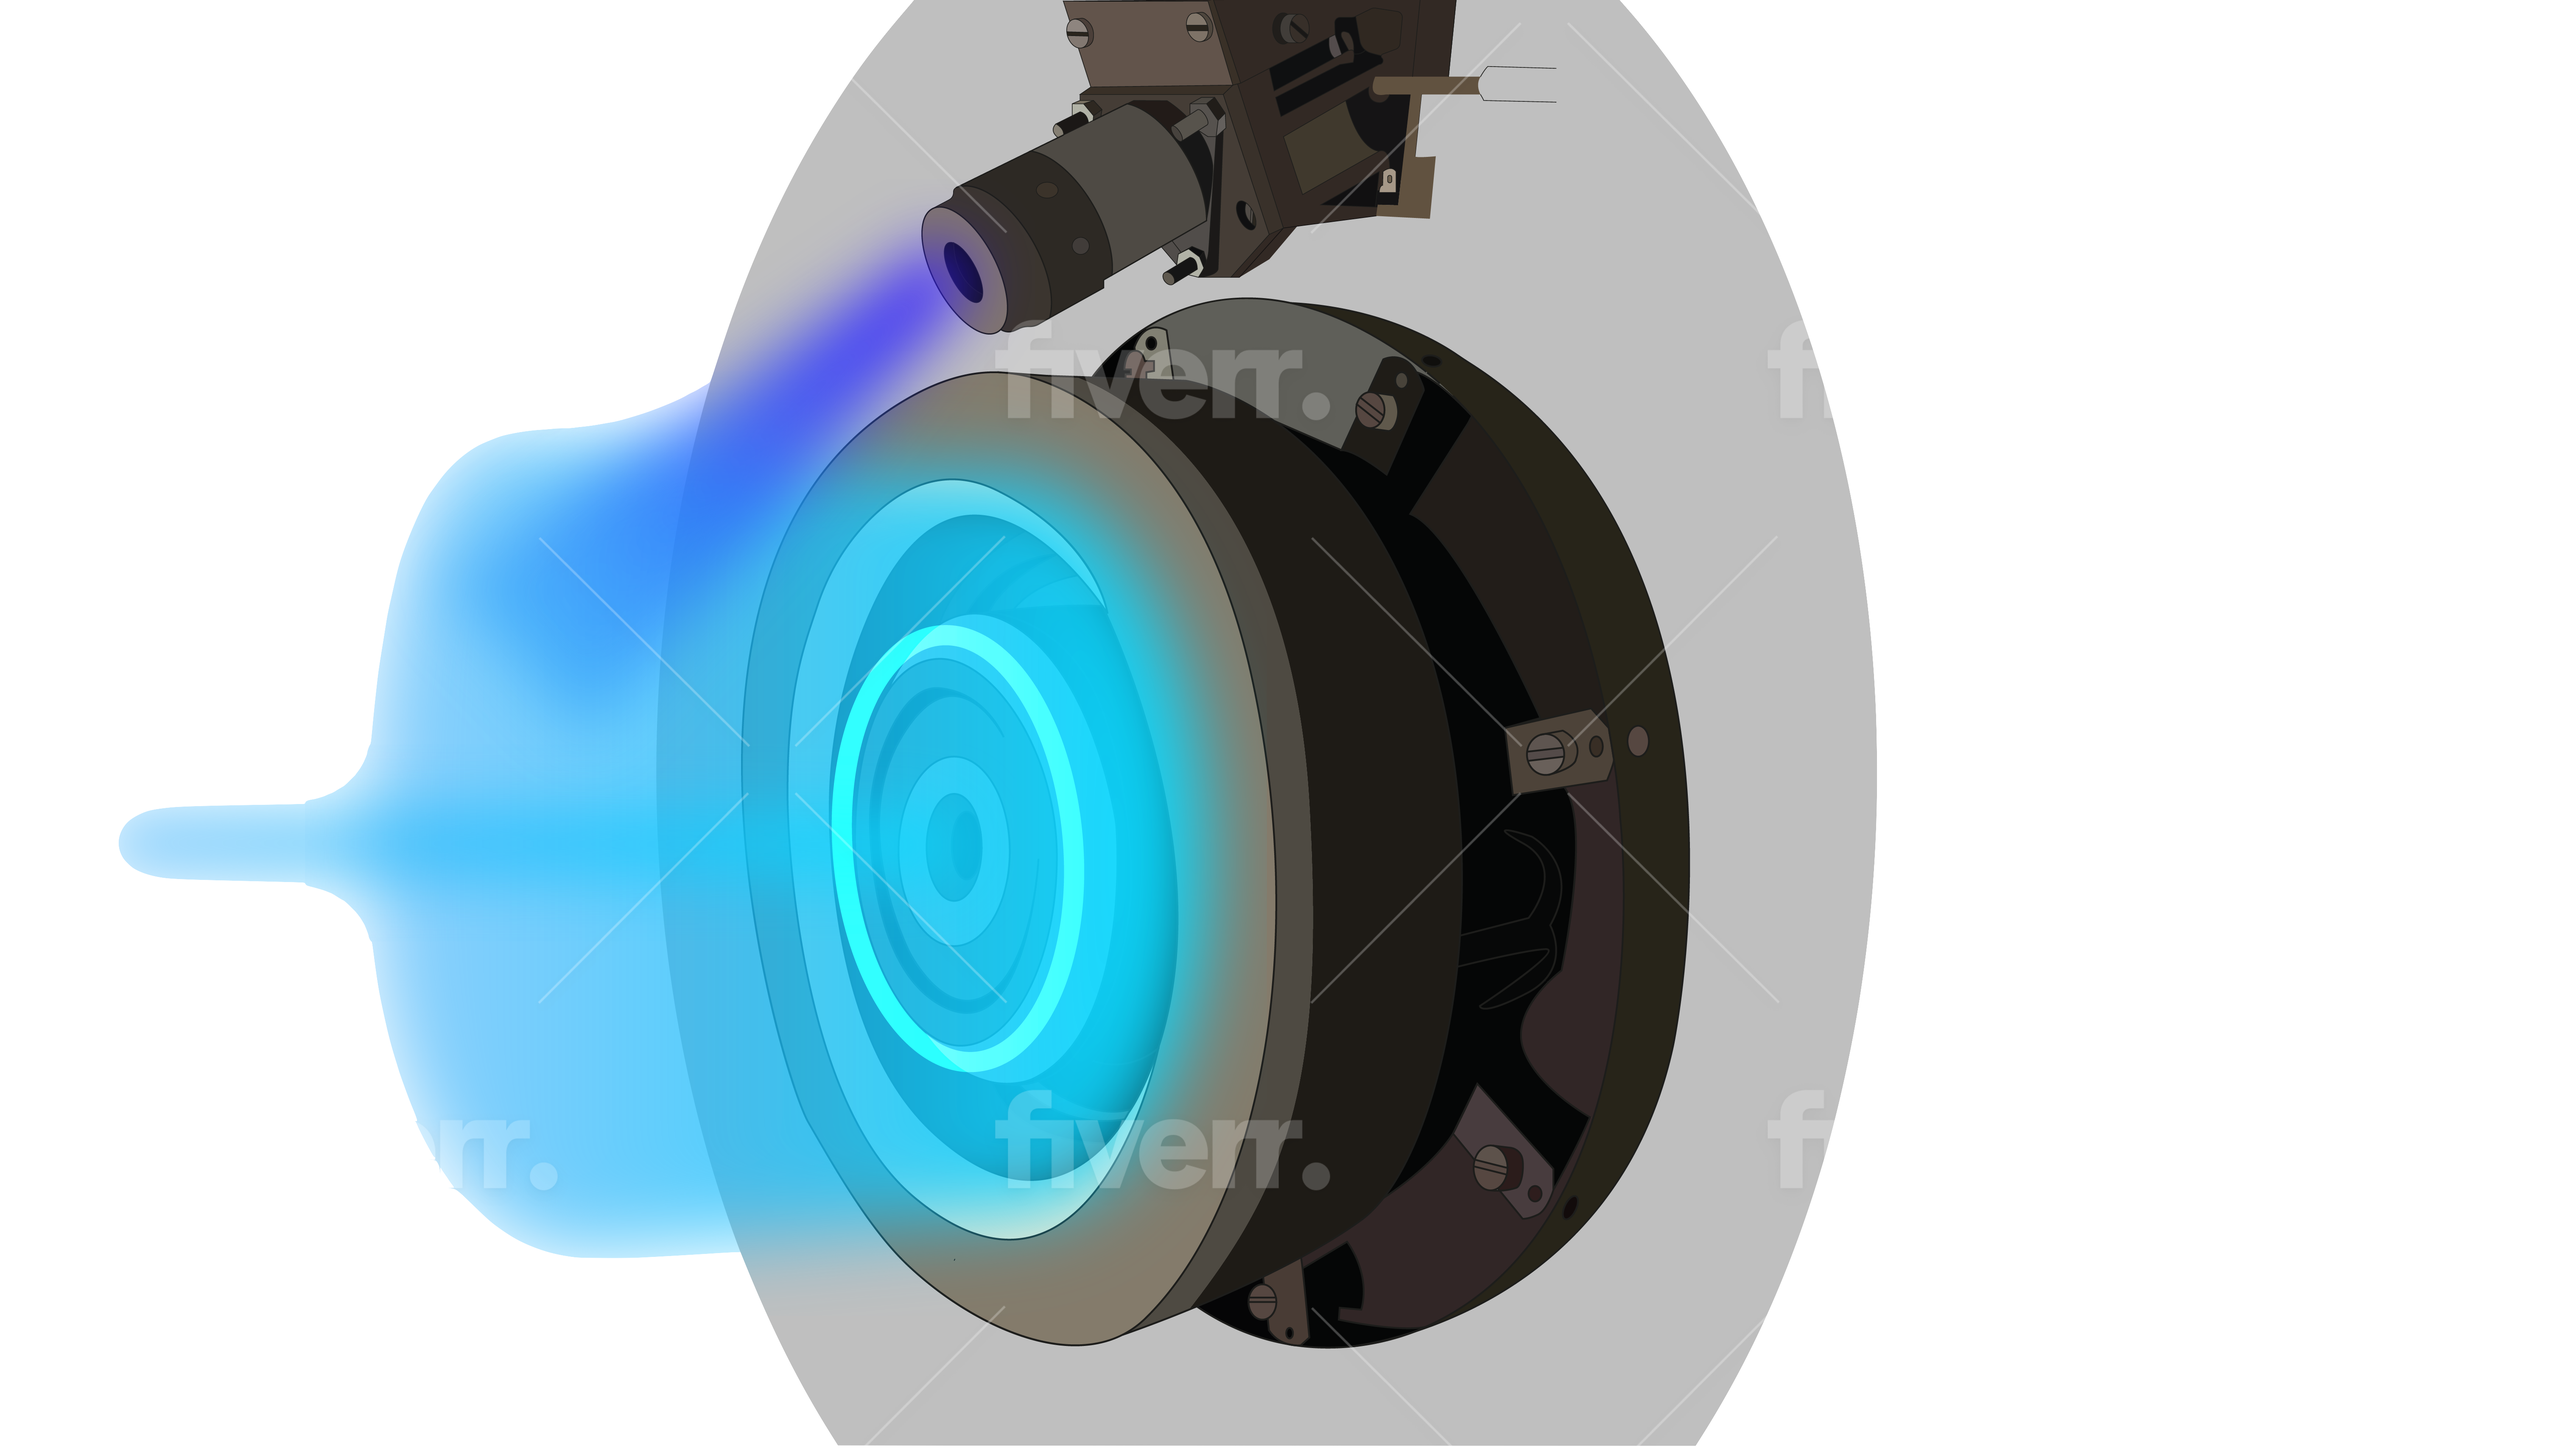
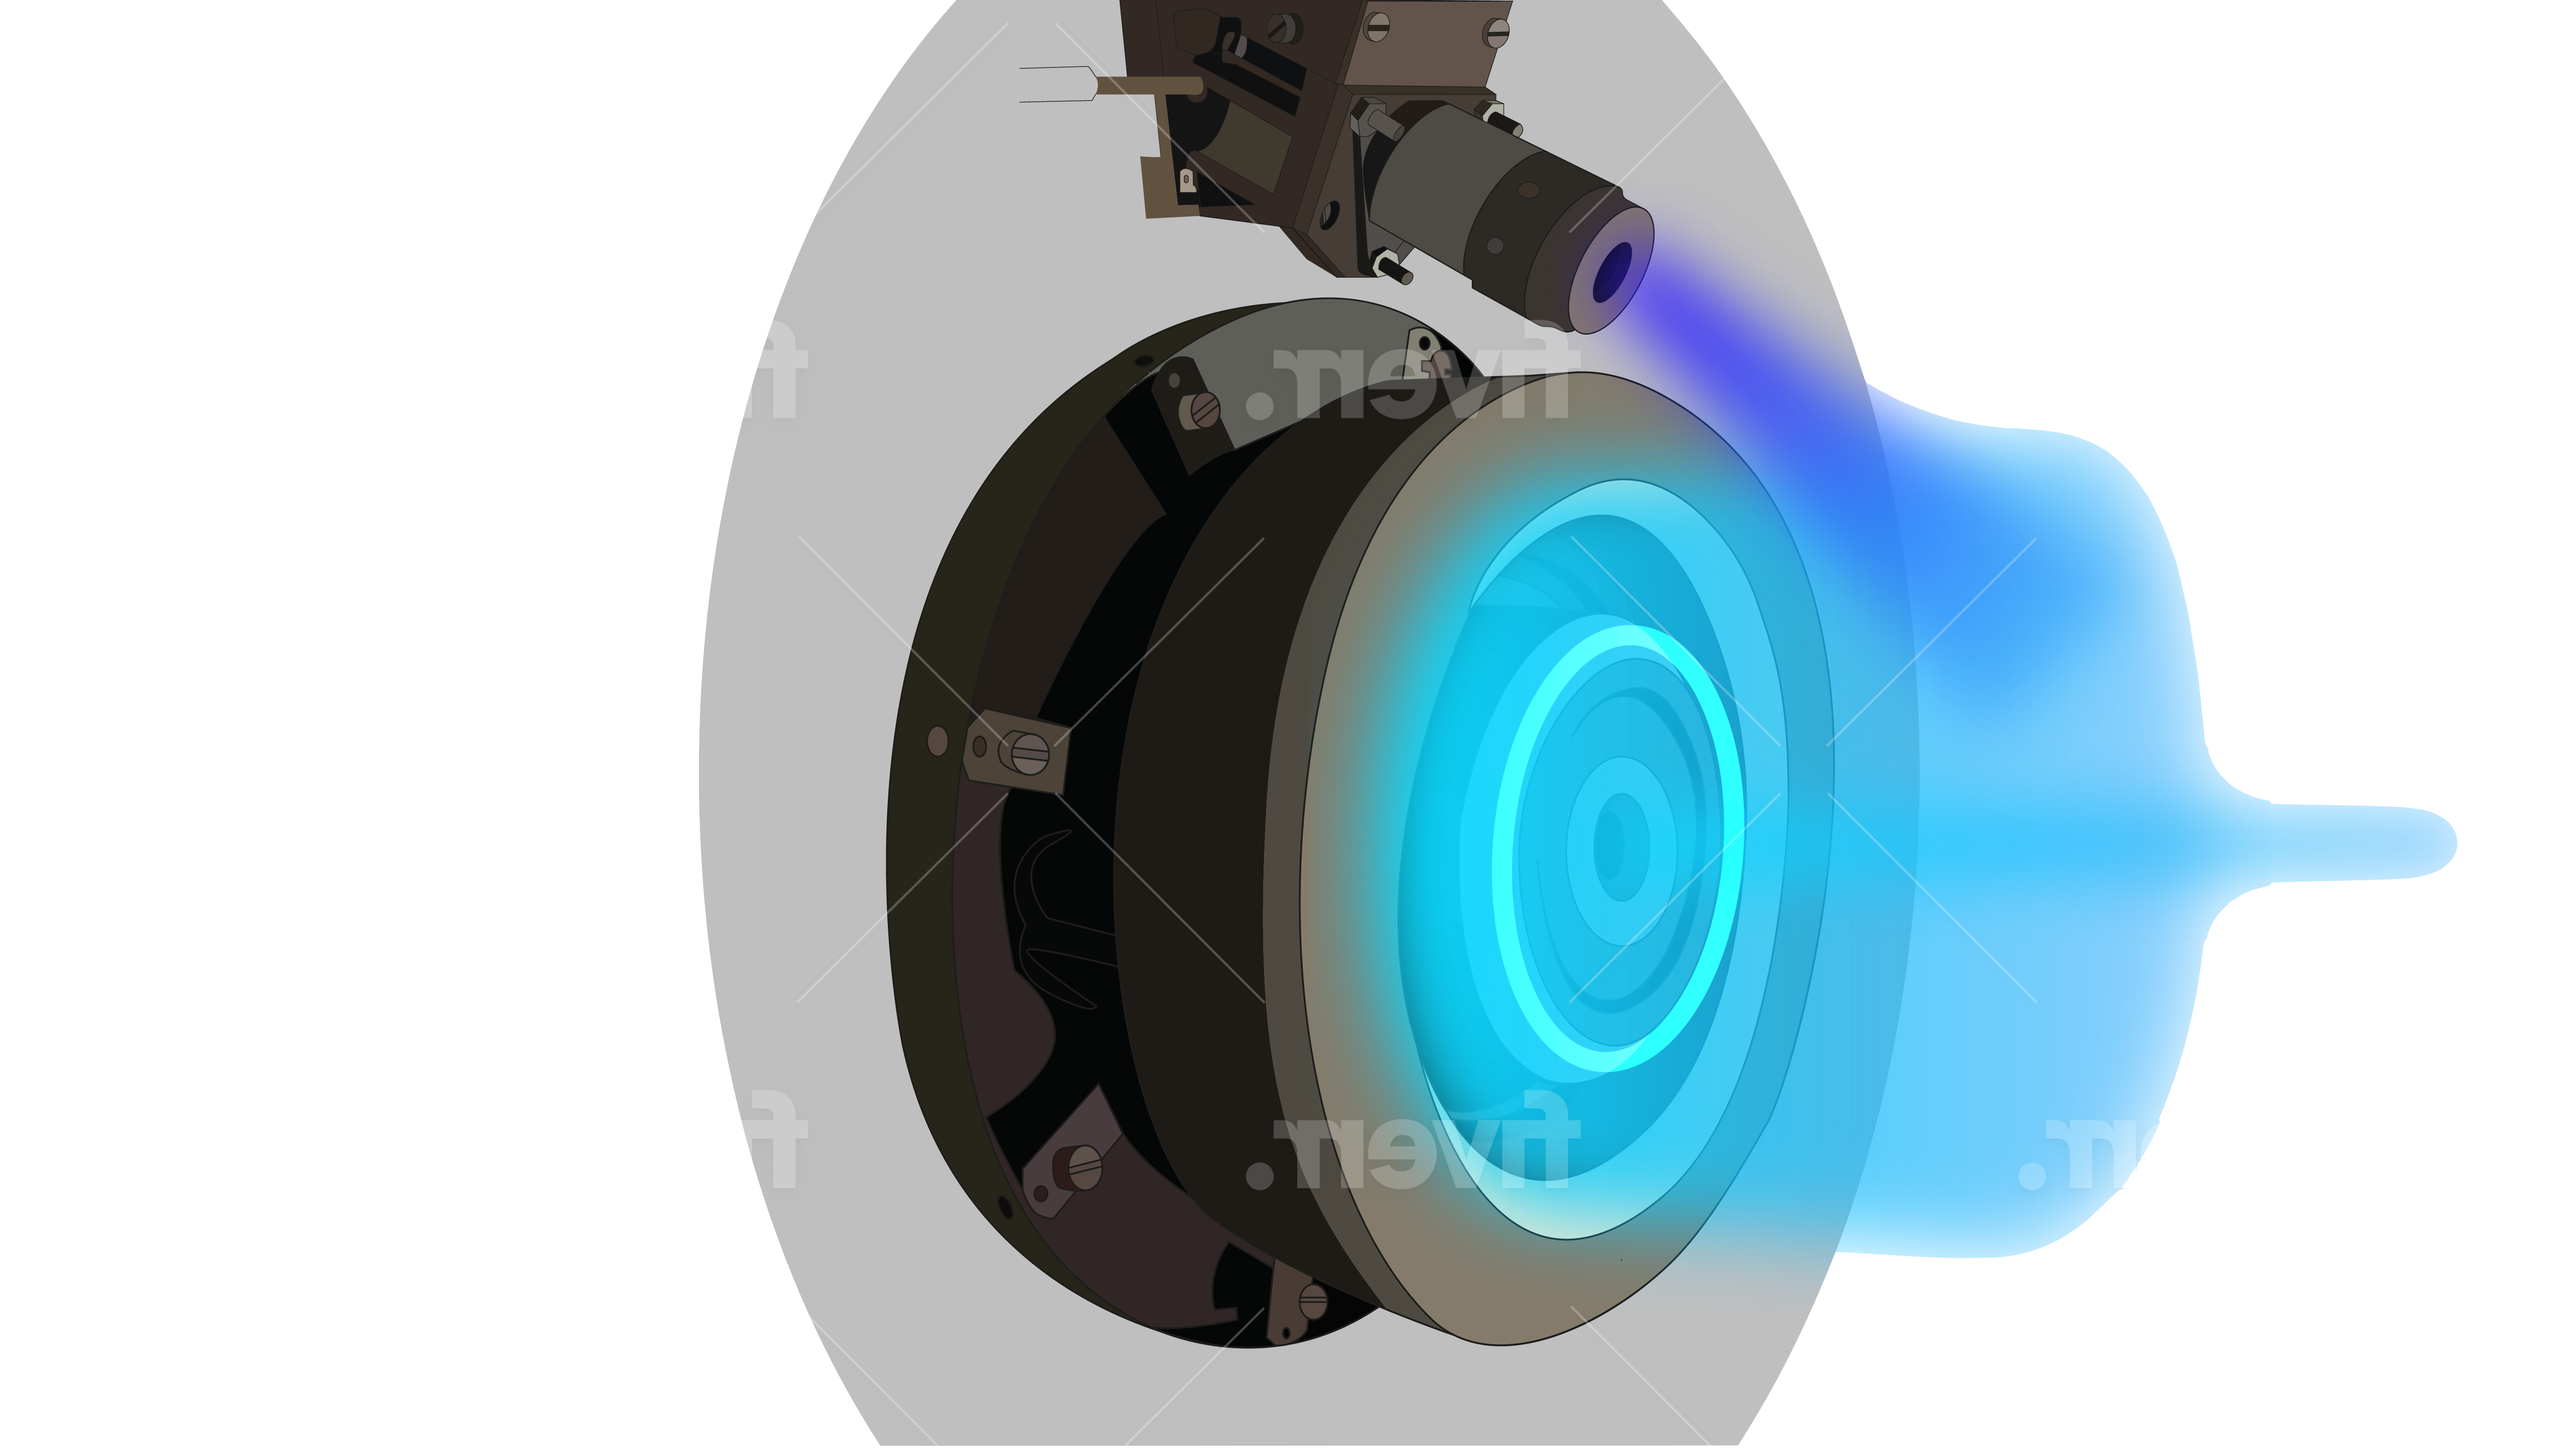
repositioned hall thruster ON

diff --git a/src/index.css b/src/index.css
@@ -101,8 +101,8 @@ code {
   min-height: 350px;
 
   top: -1vw;
-  left: 10vw;
-  right: 20vw;
+  left: -12.85vw;
+  /*right: 50vw;*/
 
   /*width: 60vw;*/
   /*min-width: 60vw;*/
